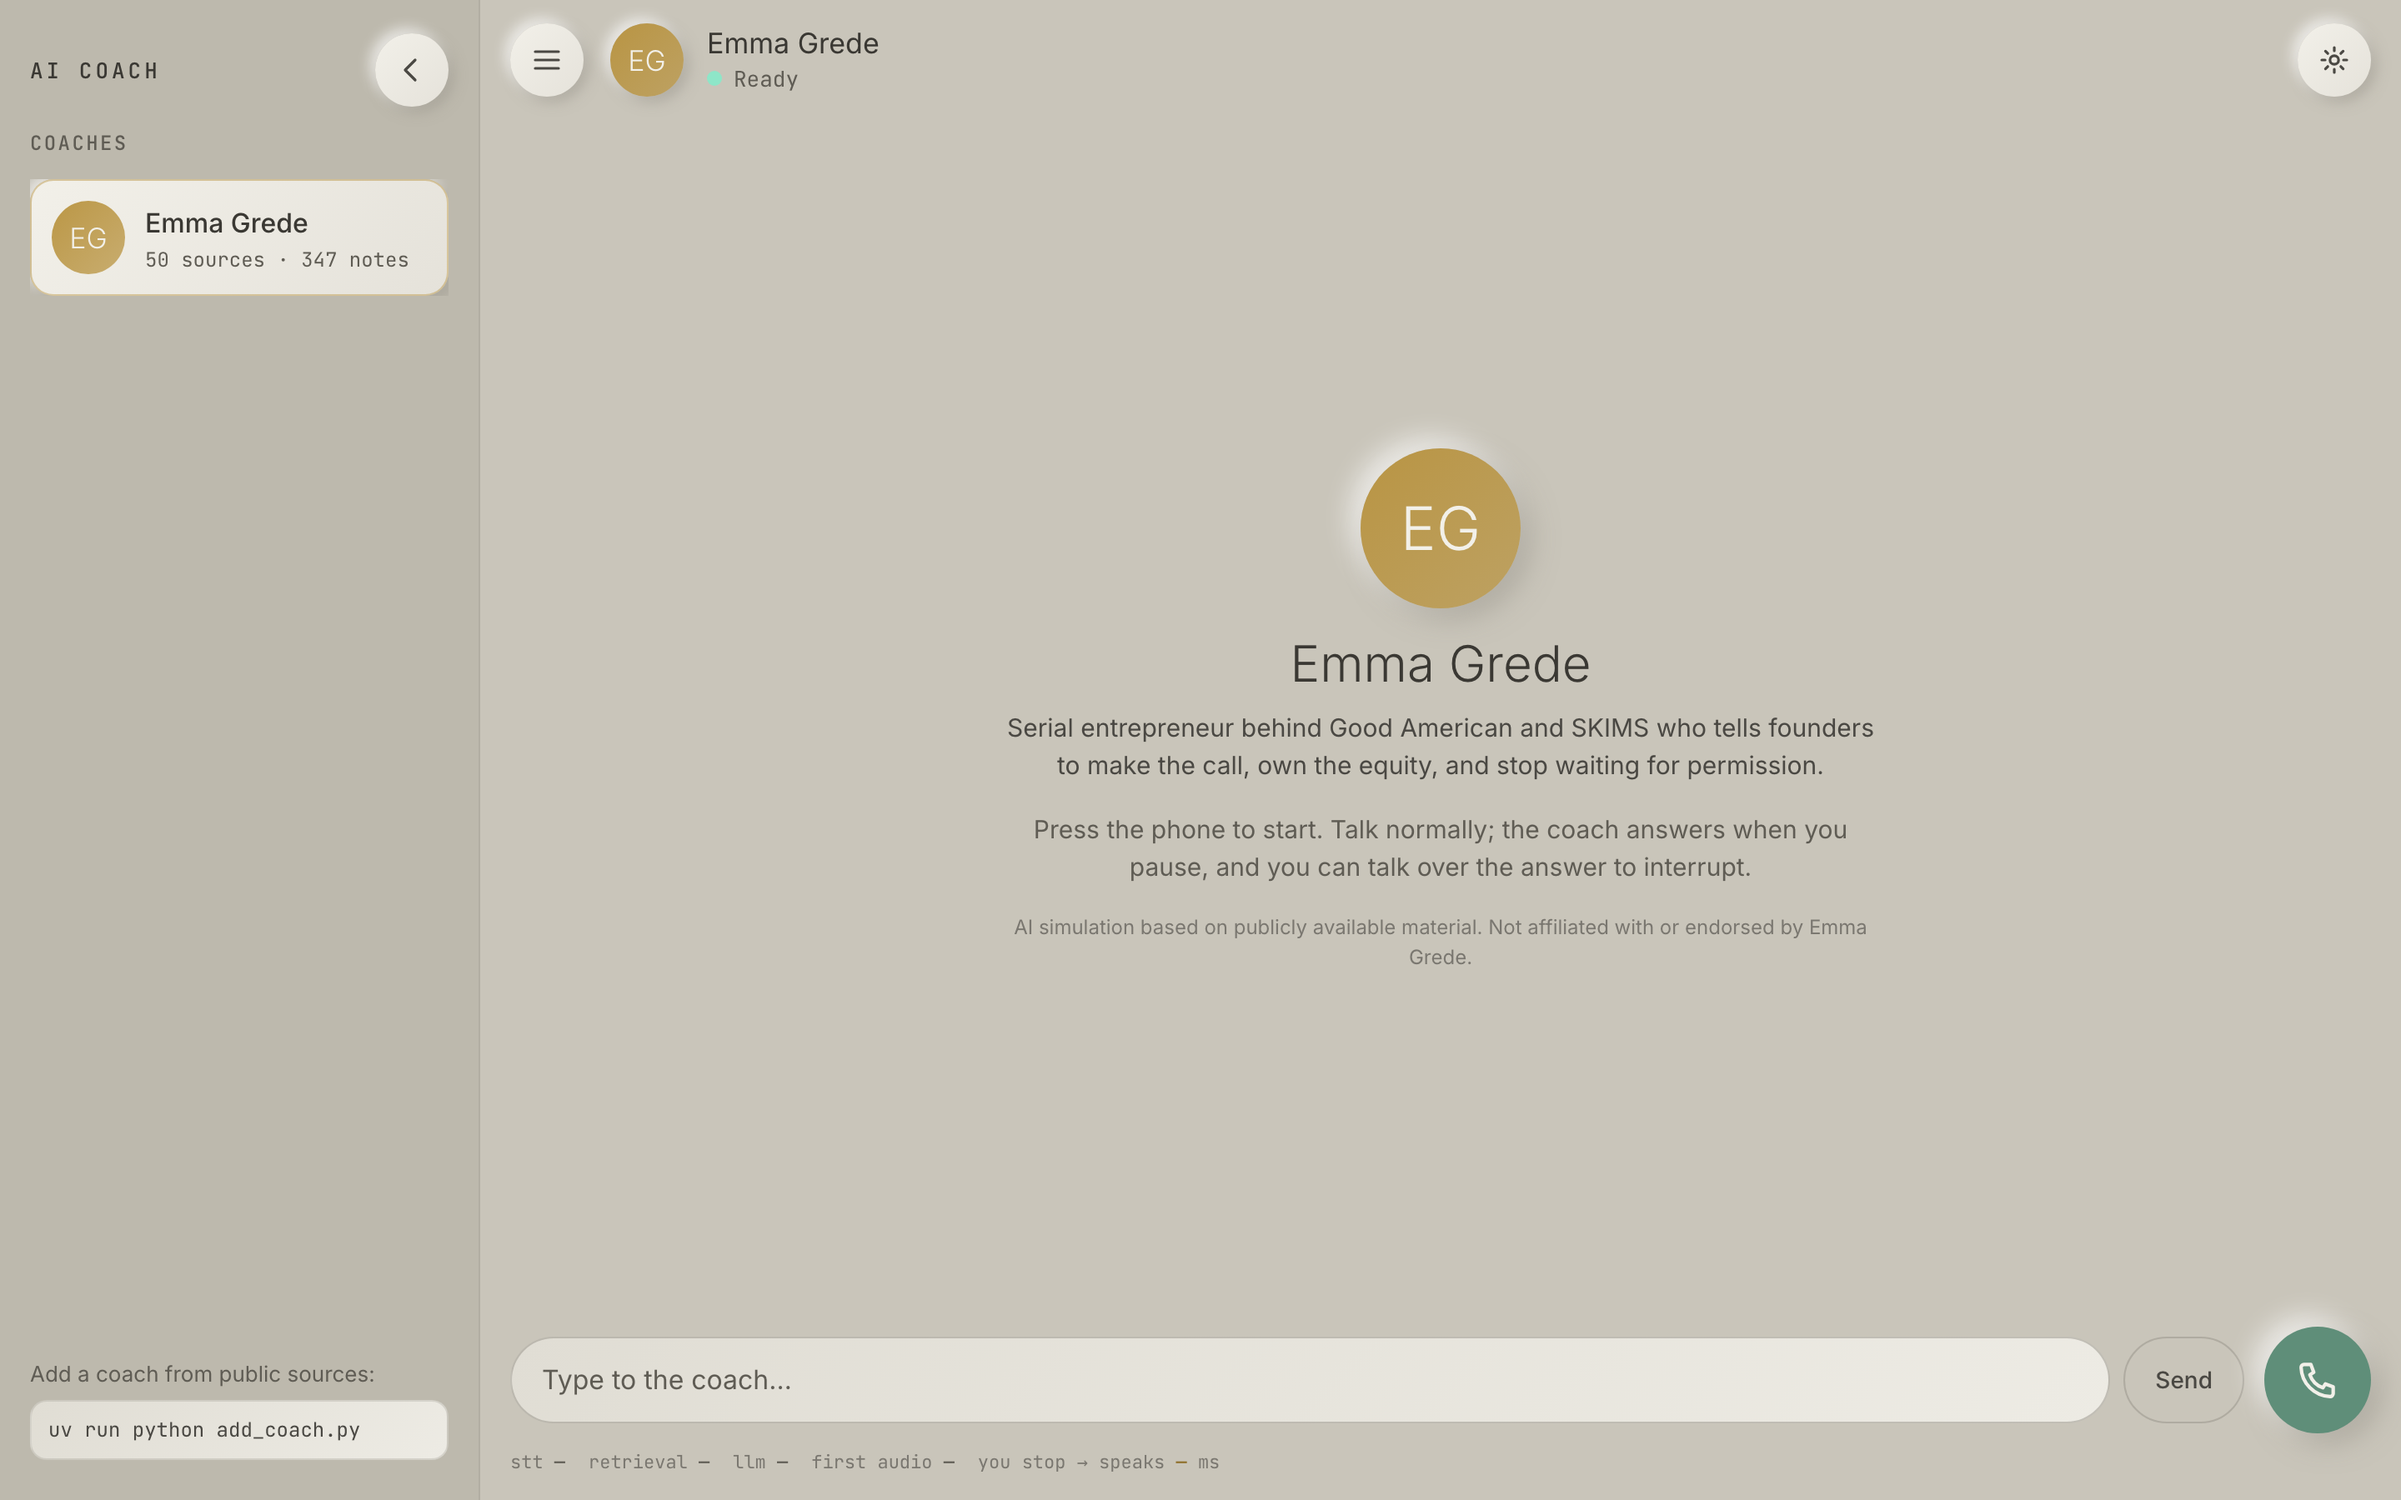
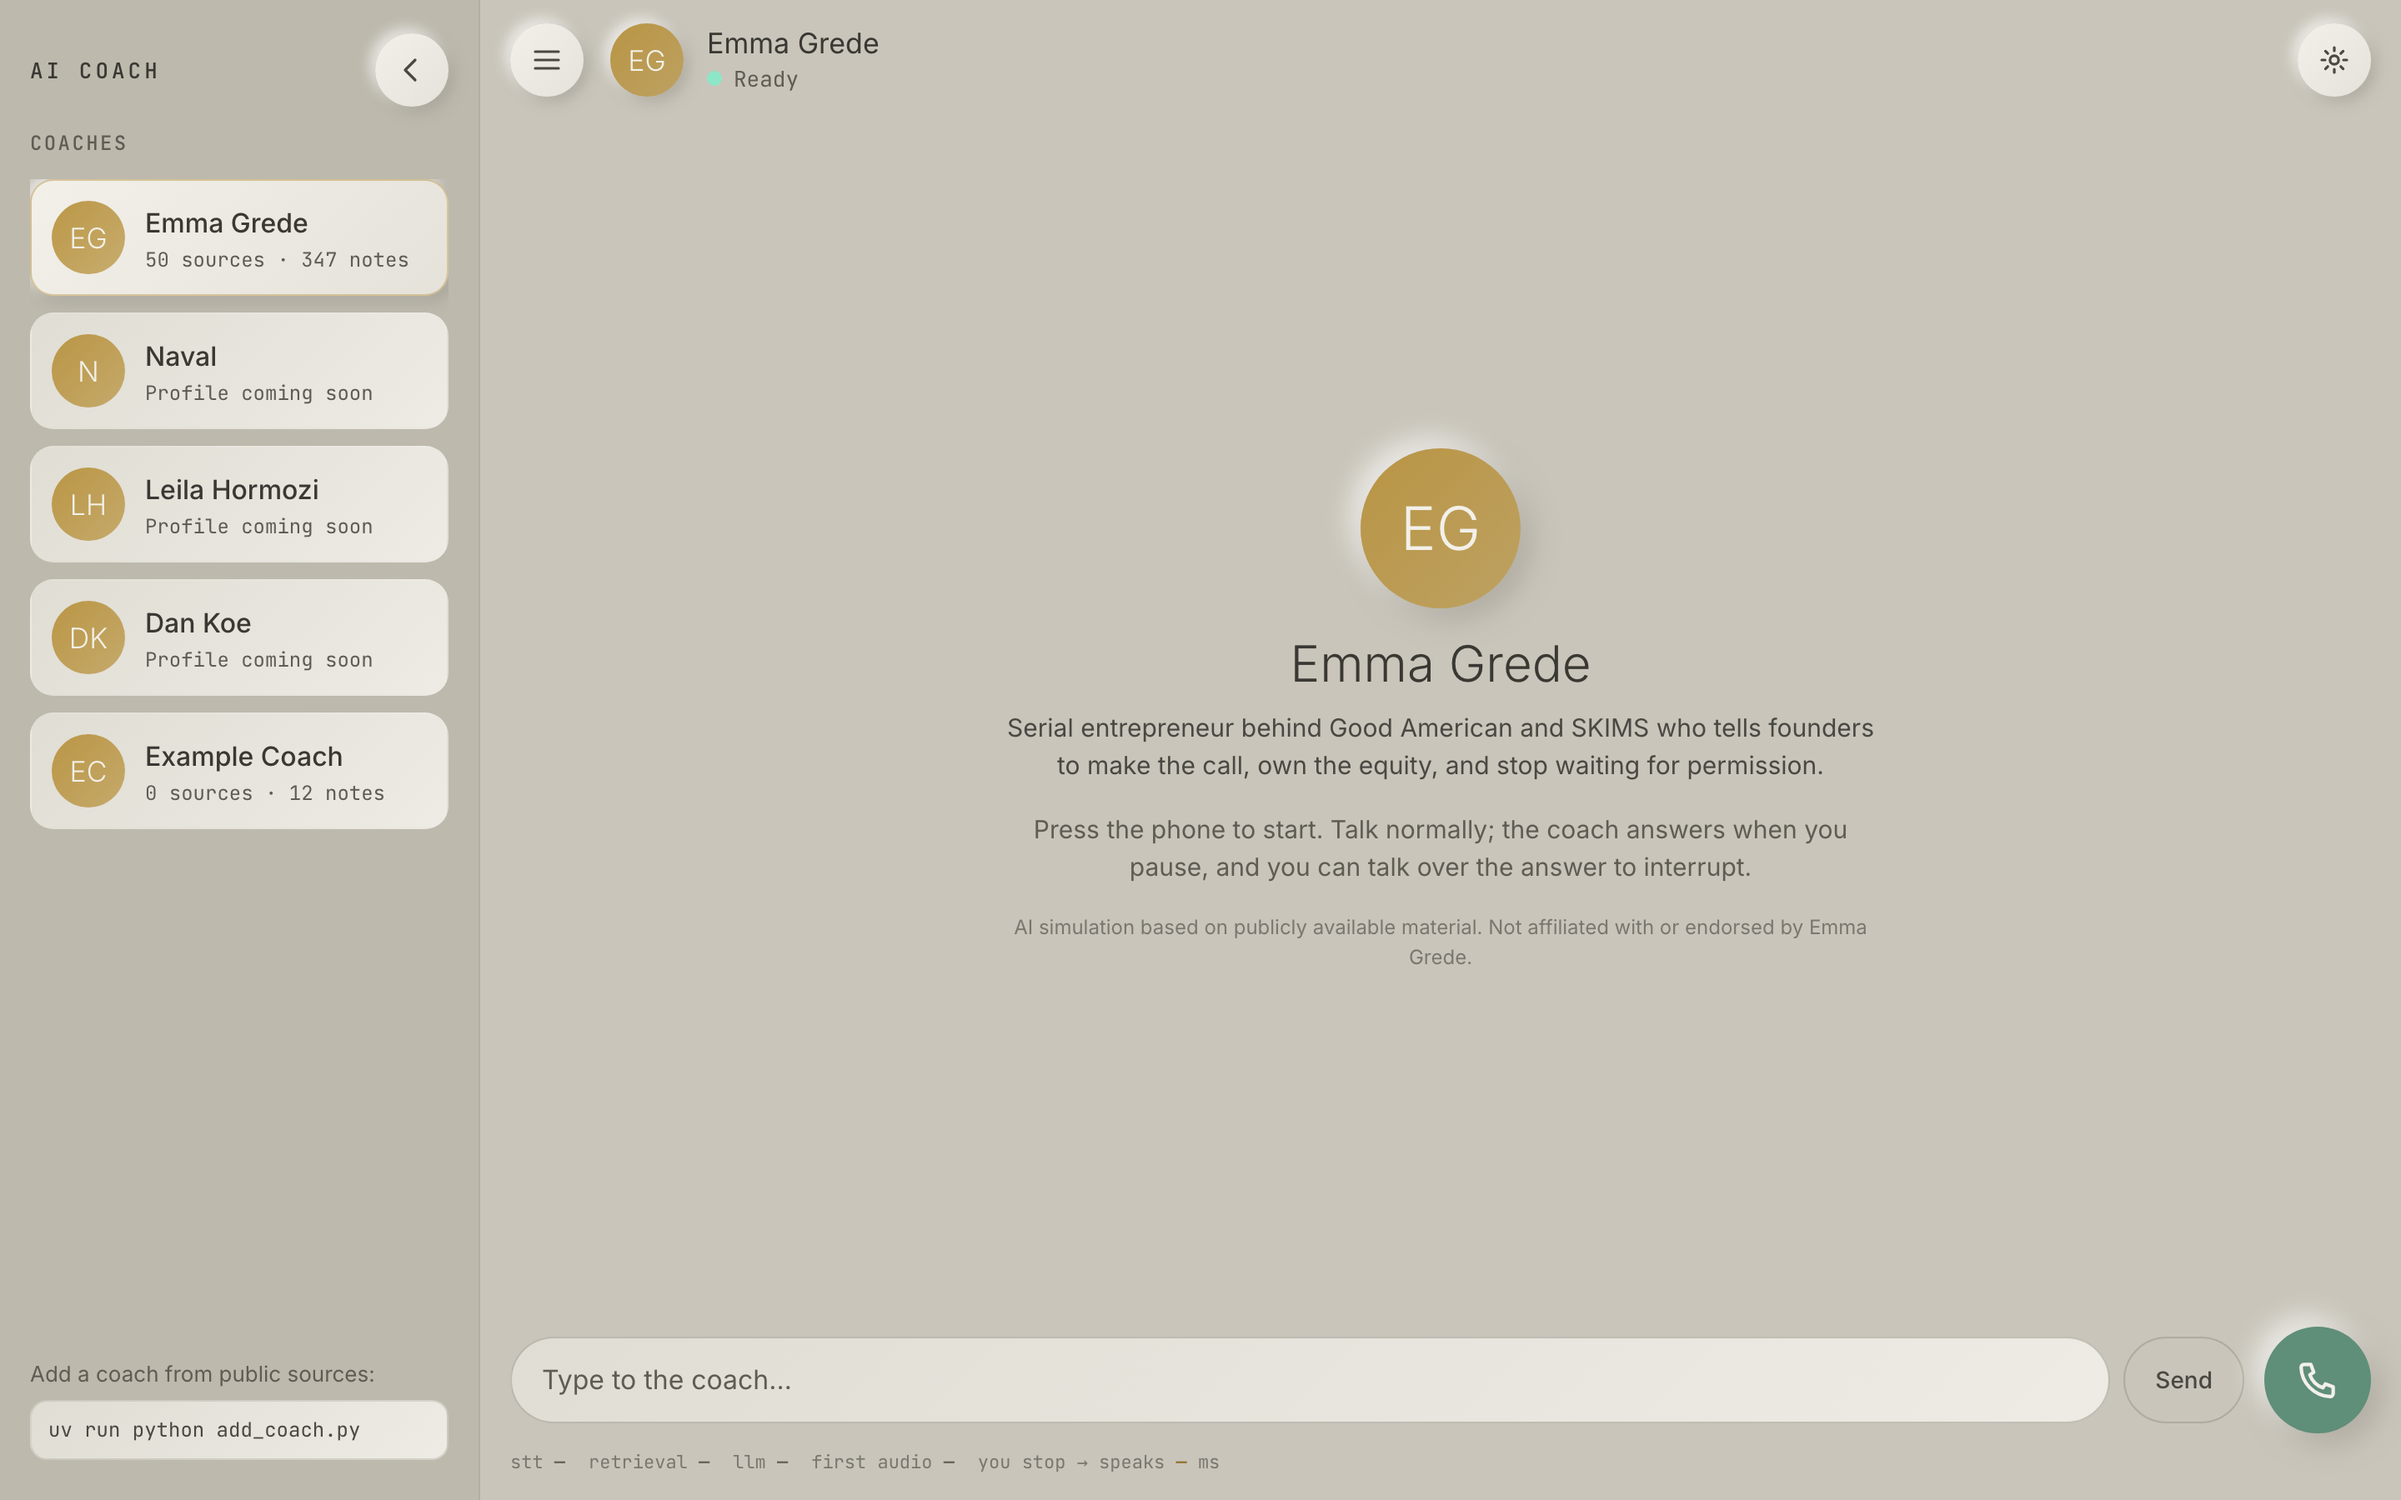
Sidebar ordering via profile.order, 'coming soon' label for unresearched coaches, refreshed screenshot

Changed region(s): [[0.0, 0.1867, 0.1875, 0.56]]

diff --git a/web/index.html b/web/index.html
@@ -7,7 +7,7 @@
   <link rel="preconnect" href="https://fonts.googleapis.com">
   <link rel="preconnect" href="https://fonts.gstatic.com" crossorigin>
   <link href="https://fonts.googleapis.com/css2?family=Inter:wght@300;400;500&family=JetBrains+Mono:wght@400;500&display=swap" rel="stylesheet">
-  <link rel="stylesheet" href="/static/style.css?v=8" />
+  <link rel="stylesheet" href="/static/style.css?v=9" />
 </head>
 <body>
 <div class="shell nav-closed" id="shell">
@@ -97,6 +97,6 @@
   <details class="debug"><summary>Knowledge retrieved for the last question</summary><div id="retrieval"></div></details>
 </aside>
 <audio id="bot-audio" autoplay playsinline></audio>
-<script src="/static/app.js?v=8"></script>
+<script src="/static/app.js?v=9"></script>
 </body>
 </html>

diff --git a/web/app.js b/web/app.js
@@ -86,7 +86,7 @@ function renderCoachList() {
     b.innerHTML = `<span class="mini-avatar"></span><span><div class="coach-item-name"></div><div class="coach-item-sub"></div></span>`;
     b.querySelector('.mini-avatar').textContent = initials(c.name);
     b.querySelector('.coach-item-name').textContent = c.name;
-    b.querySelector('.coach-item-sub').textContent = `${c.n_sources} sources · ${c.n_chunks} notes`;
+    b.querySelector('.coach-item-sub').textContent = c.n_chunks ? `${c.n_sources} sources · ${c.n_chunks} notes` : 'Profile coming soon';
     b.addEventListener('click', () => { if (inCall) return; selectCoach(c.id); if (narrow()) setNav(false); });
     els.coachList.appendChild(b);
   }

diff --git a/server/coach/loader.py b/server/coach/loader.py
@@ -158,12 +158,17 @@ def load_all(coaches_dir: Path) -> dict[str, Coach]:
     coaches: dict[str, Coach] = {}
     if not coaches_dir.exists():
         return coaches
+    loaded: list[Coach] = []
     for d in sorted(coaches_dir.iterdir()):
         if d.is_dir() and not d.name.startswith((".", "_")):
             try:
                 c = load_coach(d)
                 if c:
-                    coaches[c.id] = c
+                    loaded.append(c)
             except Exception as e:  # noqa: BLE001
                 log.exception("Failed to load coach %s: %s", d, e)
+    # profile.json "order" (lower first) lets you arrange the sidebar; unordered coaches go last, by name
+    loaded.sort(key=lambda c: (c.profile.get("order", 100), c.name.lower()))
+    for c in loaded:
+        coaches[c.id] = c
     return coaches
